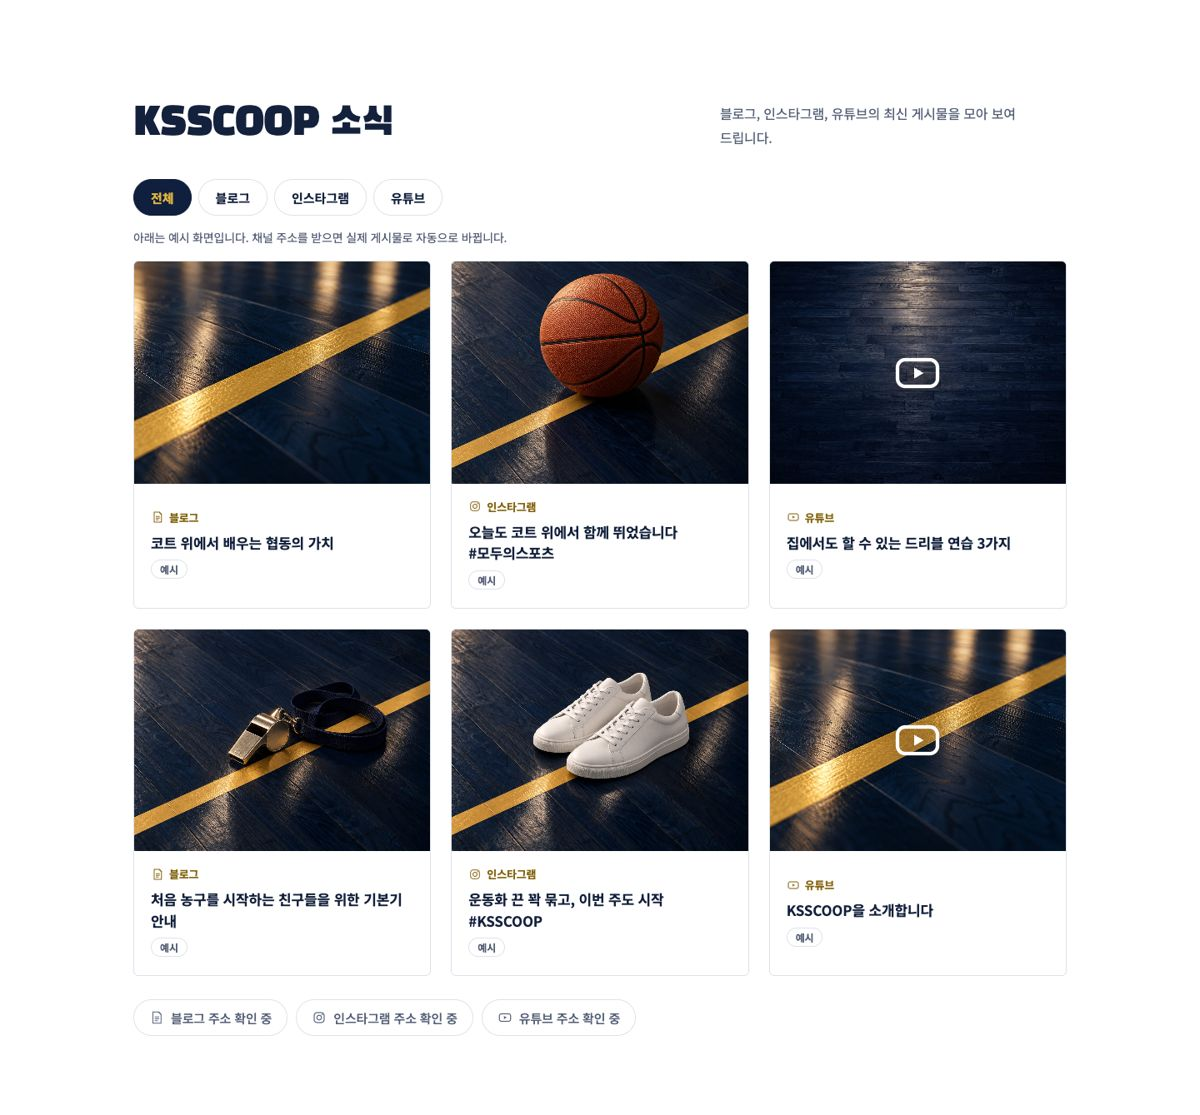
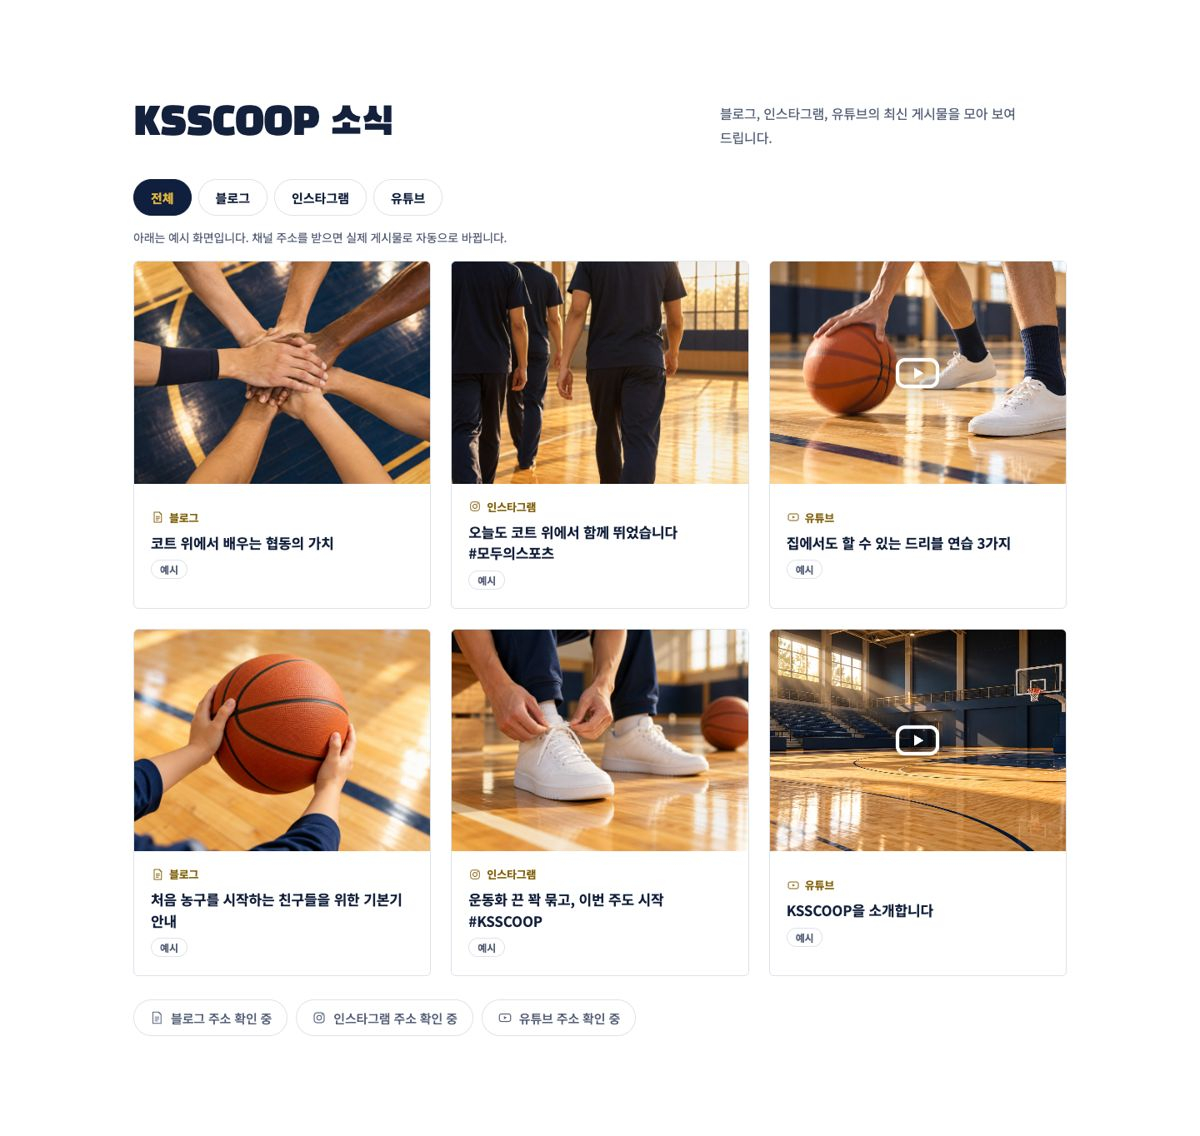
Add a light hero option for comparison and GPT-made example images in the news section

diff --git a/index.html b/index.html
@@ -63,6 +63,11 @@ td.k { font-weight: 700; white-space: nowrap; }
 .chip div { padding: 8px 12px; display: grid; }
 .chip small { color: var(--muted); }
 
+.compare { display: grid; grid-template-columns: repeat(2, minmax(0, 1fr)); gap: 16px; }
+.compare figure, .compare-mobile { margin: 0; display: grid; gap: 8px; }
+.compare img, .compare-mobile img { border: 1px solid var(--line); border-radius: 6px; }
+.compare figcaption, .compare-mobile figcaption { font-size: 14px; color: var(--muted); }
+.compare-mobile { max-width: 560px; }
 .phone-row { display: grid; grid-template-columns: 220px minmax(0, 1fr); gap: 24px; align-items: center; }
 .phone-row figure { margin: 0; border: 7px solid #1c2233; border-radius: 26px; overflow: hidden; }
 
@@ -74,7 +79,7 @@ td.k { font-weight: 700; white-space: nowrap; }
 footer { border-top: 1px solid var(--line); padding: 24px 0; color: var(--muted); font-size: 13px; }
 
 @media (max-width: 720px) {
-  .screen, .phone-row { grid-template-columns: minmax(0, 1fr); }
+  .screen, .phone-row, .compare { grid-template-columns: minmax(0, 1fr); }
   .phone-row figure { max-width: 220px; }
 }
 </style>
@@ -177,6 +182,25 @@ footer { border-top: 1px solid var(--line); padding: 24px 0; color: var(--muted)
           </tbody>
         </table>
       </div>
+      <h3>첫 화면 바탕 비교안</h3>
+      <div class="compare">
+        <figure><img src="design-assets/hero.jpg" width="1200" height="693" alt="첫 화면 어두운 바탕안" loading="lazy"><figcaption><b>A. 어두운 바탕</b> (현재 기본)</figcaption></figure>
+        <figure><img src="design-assets/hero-light.jpg" width="1200" height="693" alt="첫 화면 밝은 바탕안" loading="lazy"><figcaption><b>B. 밝은 바탕</b></figcaption></figure>
+      </div>
+      <div class="table-wrap">
+        <table>
+          <thead><tr><th>구분</th><th>A. 어두운 바탕</th><th>B. 밝은 바탕</th></tr></thead>
+          <tbody>
+            <tr><td class="k">바닥</td><td>남색 나무 바닥, 흰색 코트 선</td><td>밝은 원목 바닥, 남색 코트 선</td></tr>
+            <tr><td class="k">인상</td><td>무게감, 신뢰감, 고급스러움</td><td>밝음, 친근함, 실제 체육관 느낌</td></tr>
+            <tr><td class="k">로고</td><td>금색 로고가 가장 돋보임</td><td>로고 외곽선으로 형태 유지, 대비는 다소 약함</td></tr>
+            <tr><td class="k">아래 영역과 연결</td><td>어두운 영역(함께하는 방법·문의)과 통일감</td><td>밝은 영역(소개·소식)과 자연스럽게 이어짐</td></tr>
+          </tbody>
+        </table>
+      </div>
+      <figure class="compare-mobile"><img src="design-assets/mobile-compare.jpg" width="770" height="501" alt="휴대폰 첫 화면 어두운 바탕안과 밝은 바탕안" loading="lazy"><figcaption>휴대폰 화면 비교 (왼쪽 A, 오른쪽 B)</figcaption></figure>
+      <ul class="items"><li>시안 하단 막대의 ‘첫 화면: 어둡게 / 밝게’ 버튼으로 직접 전환하여 비교 가능</li><li>최종안 선택 요청</li></ul>
+      <h3>영역별 화면</h3>
       <div class="screens">
         <div class="screen">
           <figure><img src="design-assets/hero.jpg" width="1200" height="693" alt="첫 화면 시안" loading="lazy"></figure>
@@ -199,8 +223,8 @@ footer { border-top: 1px solid var(--line); padding: 24px 0; color: var(--muted)
           <div><h3>함께하는 방법</h3><ul class="items"><li>어두운 바닥 위 선택 카드 3종</li><li>카드별 버튼으로 문의 영역 이동</li></ul></div>
         </div>
         <div class="screen">
-          <figure><img src="design-assets/news.jpg" width="1200" height="1115" alt="소식 영역 시안" loading="lazy"></figure>
-          <div><h3>소식</h3><ul class="items"><li>채널별 보기(전체, 블로그, 인스타그램, 유튜브)</li><li>게시물 카드: 썸네일, 채널, 제목, 날짜</li><li>채널 주소 확인 전에는 ‘예시’ 표시 카드로 구성 확인 (예시 제목·이미지, 실제 게시물 아님)</li></ul></div>
+          <figure><img src="design-assets/news.jpg" width="1200" height="1136" alt="소식 영역 시안" loading="lazy"></figure>
+          <div><h3>소식</h3><ul class="items"><li>채널별 보기(전체, 블로그, 인스타그램, 유튜브)</li><li>게시물 카드: 썸네일, 채널, 제목, 날짜</li><li>채널 주소 확인 전에는 ‘예시’ 표시 카드로 구성 확인 (예시 제목, AI 생성 이미지, 실제 게시물 아님)</li></ul></div>
         </div>
         <div class="screen">
           <figure><img src="design-assets/disclosure.jpg" width="1200" height="520" alt="경영공시 영역 시안" loading="lazy"></figure>
@@ -248,7 +272,8 @@ footer { border-top: 1px solid var(--line); padding: 24px 0; color: var(--muted)
       <ul class="items">
         <li>블로그·유튜브: 채널 주소 등록 시 매일 1회 최신 게시물 자동 반영 (공개 RSS 활용)</li>
         <li>인스타그램: 공개 자동 연동 수단이 없어 게시물 직접 등록 또는 별도 연동 서비스 검토 필요</li>
-        <li>게시물 없는 채널은 ‘주소 확인 중’ 표시, 예시 카드(AI 이미지)로 화면 구성 안내</li>
+        <li>게시물 없는 채널은 ‘주소 확인 중’ 표시, 예시 카드로 화면 구성 안내</li>
+        <li>예시 이미지는 얼굴이 드러나지 않는 장면(손, 발, 뒷모습, 공)으로 제작하여 실제 활동 오인 방지</li>
         <li>언론 기사 및 이전 홈페이지 사진은 저작권·촬영 동의 확인 불가로 미사용</li>
       </ul>
       <h3>마. 이미지</h3>
@@ -282,6 +307,7 @@ footer { border-top: 1px solid var(--line); padding: 24px 0; color: var(--muted)
       <ul class="items">
         <li><b>문구 변경:</b> 시안에서 문구 클릭 → A·B·C 중 선택 또는 직접 수정</li>
         <li><b>일괄 변경:</b> 화면 하단 막대에서 A·B·C 선택 시 전체 문구 변경</li>
+        <li><b>첫 화면 비교:</b> 화면 하단 막대에서 ‘어둡게 / 밝게’ 선택</li>
         <li><b>수정 요청:</b> 문구 클릭 → ‘이 문구에 수정 요청 남기기’ → GitHub 작성 화면에서 등록</li>
         <li><b>선택 결과 전달:</b> 화면 하단 ‘선택 결과 보내기’ → 선택 내용이 자동 입력된 GitHub 작성 화면에서 등록</li>
       </ul>

diff --git a/site/style.css b/site/style.css
@@ -167,7 +167,7 @@ a.news-link:hover { box-shadow: 0 10px 30px rgba(15, 31, 61, 0.12); }
 .news-card .thumb { position: relative; }
 .news-card .play { position: absolute; inset: 0; display: grid; place-items: center; color: var(--white); }
 .news-card .play svg { width: 64px; height: 64px; filter: drop-shadow(0 4px 12px rgba(0, 0, 0, 0.5)); }
-.news-card.is-demo .thumb img { object-position: center 82%; }
+.news-card.is-demo .thumb img { object-position: center; }
 .demo-tag { justify-self: start; font-size: 12px; font-weight: 700; color: var(--muted); border: 1px solid var(--line); border-radius: 999px; padding: 2px 10px; }
 .channel-links { display: flex; gap: 10px; flex-wrap: wrap; margin-top: 28px; }
 .channel-link {
@@ -318,4 +318,33 @@ body { padding-bottom: 84px; }
   body { padding-bottom: 150px; }
   .review-bar { bottom: 10px; padding: 10px; gap: 8px; }
   .review-status { max-width: 100%; text-align: center; flex-basis: 100%; }
+}
+
+/* ───────── 첫 화면 밝은 바탕 버전 (비교용) ───────── */
+.hero-light .site-header { background: #fbf8f2; color: var(--ink); border-bottom: 1px solid #e7dfd0; }
+.hero-light .site-header nav a:hover { color: var(--gold-ink); }
+.hero-light .site-header .nav-cta { border-color: var(--ink); color: var(--ink); }
+.hero-light .site-header .nav-cta:hover { background: var(--ink); color: var(--white); }
+.hero-light .menu-button span { background: var(--ink); }
+.hero-light .hero { background: #eadcc2; color: var(--ink); }
+.hero-light .hero-floor { background: url("assets/ai/court-floor-light.jpg") 60% 30% / cover no-repeat, #eadcc2; }
+.hero-light .line { stroke: var(--court); stroke-opacity: 0.85; }
+.hero-light .line.soft { stroke-opacity: 0.35; }
+.hero-light .marks rect { fill: var(--court); fill-opacity: 0.85; }
+.hero-light .paint { fill: var(--court); opacity: 0.14; }
+.hero-light .hero-shade {
+  background:
+    linear-gradient(90deg, rgba(251, 248, 242, 0.94) 0%, rgba(251, 248, 242, 0.78) 38%, rgba(251, 248, 242, 0.1) 70%, rgba(251, 248, 242, 0) 100%);
+}
+.hero-light .hero h1 { text-shadow: none; }
+.hero-light .hero-lead { color: #3d475c; }
+.hero-light .hero-logo { filter: drop-shadow(0 8px 20px rgba(15, 31, 61, 0.25)); }
+.hero-light .button.line { border-color: var(--ink); color: var(--ink); }
+.hero-light .button.line:hover { background: var(--ink); color: var(--white); }
+.review-theme { align-items: center; gap: 4px; }
+.review-theme .review-title { margin-right: 4px; }
+@media (max-width: 860px) {
+  .hero-light .site-header nav { background: #fbf8f2; border-top-color: #e7dfd0; }
+  .hero-light .site-header nav a { border-bottom-color: #e7dfd0; }
+  .hero-light .hero-shade { background: linear-gradient(180deg, rgba(251, 248, 242, 0.88) 0%, rgba(251, 248, 242, 0.7) 55%, rgba(251, 248, 242, 0.9) 100%); }
 }

diff --git a/site/app.js b/site/app.js
@@ -39,6 +39,21 @@ document.querySelector('#privacy-link').addEventListener('click', (event) => {
 });
 privacy.querySelector('[data-close]').addEventListener('click', () => privacy.close());
 
+// 첫 화면 바탕 비교: 어둡게 / 밝게 (?hero=light 로 바로 열 수 있음)
+const THEME_KEY = 'ksscoop-hero-theme';
+function setHeroTheme(theme) {
+  document.body.classList.toggle('hero-light', theme === 'light');
+  document.querySelectorAll('.review-theme [data-theme]').forEach((b) => b.setAttribute('aria-pressed', String(b.dataset.theme === theme)));
+  try { localStorage.setItem(THEME_KEY, theme); } catch { /* 저장 불가 환경 */ }
+}
+document.querySelectorAll('.review-theme [data-theme]').forEach((b) => b.addEventListener('click', () => setHeroTheme(b.dataset.theme)));
+{
+  const fromUrl = new URLSearchParams(location.search).get('hero');
+  let saved = null;
+  try { saved = localStorage.getItem(THEME_KEY); } catch { /* 저장 불가 환경 */ }
+  setHeroTheme(fromUrl === 'light' || (!fromUrl && saved === 'light') ? 'light' : 'dark');
+}
+
 // ───────── 문구 가안 ─────────
 // picks: { [key]: { v: 'A' | 'B' | 'C' | 'X', text?: string } } — X는 직접 쓴 문구
 const COPY = window.KSSCOOP_COPY;
@@ -106,7 +121,7 @@ function renderAll() {
     el.dataset.variant = pick ? pick.v : 'A';
   });
   const global = currentGlobalVariant();
-  document.querySelectorAll('.review-variants button').forEach((b) => {
+  document.querySelectorAll('.review-variants:not(.review-theme) button').forEach((b) => {
     b.setAttribute('aria-pressed', String(b.dataset.v === global));
   });
 }
@@ -130,7 +145,7 @@ async function savePicks(next, message) {
 }
 
 // 전체 가안 버튼
-const variantGroup = document.querySelector('.review-variants');
+const variantGroup = document.querySelector('.review-variants:not(.review-theme)');
 VARIANT_KEYS.forEach((v) => {
   const b = document.createElement('button');
   b.type = 'button';

diff --git a/site/news.js b/site/news.js
@@ -59,16 +59,16 @@
   // 실제 게시물이 없을 때 보여 주는 예시 카드. 실제 있었던 일처럼 보이는 내용은 쓰지 않는다.
   const DEMO = {
     blog: [
-      { title: '코트 위에서 배우는 협동의 가치', thumb: 'assets/ai/gold-line-detail.jpg' },
-      { title: '처음 농구를 시작하는 친구들을 위한 기본기 안내', thumb: 'assets/ai/value-education.jpg' },
+      { title: '코트 위에서 배우는 협동의 가치', thumb: 'assets/ai/sns-blog-1.jpg' },
+      { title: '처음 농구를 시작하는 친구들을 위한 기본기 안내', thumb: 'assets/ai/sns-blog-2.jpg' },
     ],
     instagram: [
-      { title: '오늘도 코트 위에서 함께 뛰었습니다 #\u2060모두의스포츠', thumb: 'assets/ai/value-healthy.jpg' },
-      { title: '운동화 끈 꽉 묶고, 이번 주도 시작 #\u2060KSSCOOP', thumb: 'assets/ai/value-everyone.jpg' },
+      { title: '오늘도 코트 위에서 함께 뛰었습니다 #\u2060모두의스포츠', thumb: 'assets/ai/sns-insta-1.jpg' },
+      { title: '운동화 끈 꽉 묶고, 이번 주도 시작 #\u2060KSSCOOP', thumb: 'assets/ai/sns-insta-2.jpg' },
     ],
     youtube: [
-      { title: '집에서도 할 수 있는 드리블 연습 3가지', thumb: 'assets/ai/court-floor.jpg' },
-      { title: 'KSSCOOP을 소개합니다', thumb: 'assets/ai/gold-line-detail.jpg' },
+      { title: '집에서도 할 수 있는 드리블 연습 3가지', thumb: 'assets/ai/sns-youtube-1.jpg' },
+      { title: 'KSSCOOP을 소개합니다', thumb: 'assets/ai/sns-youtube-2.jpg' },
     ],
   };
 

diff --git a/site/index.html b/site/index.html
@@ -199,6 +199,11 @@
   <a class="review-doc" href="../index.html">정의서</a>
   <span class="review-title">문구 가안</span>
   <div class="review-variants" role="group" aria-label="전체 문구 가안 선택"></div>
+  <div class="review-variants review-theme" role="group" aria-label="첫 화면 바탕">
+    <span class="review-title">첫 화면</span>
+    <button type="button" data-theme="dark" aria-pressed="true">어둡게</button>
+    <button type="button" data-theme="light" aria-pressed="false">밝게</button>
+  </div>
   <button type="button" class="review-toggle" aria-pressed="true">문구 고치기 켜짐</button>
   <button type="button" class="review-send">선택 결과 보내기</button>
   <span class="review-status" aria-live="polite"></span>
